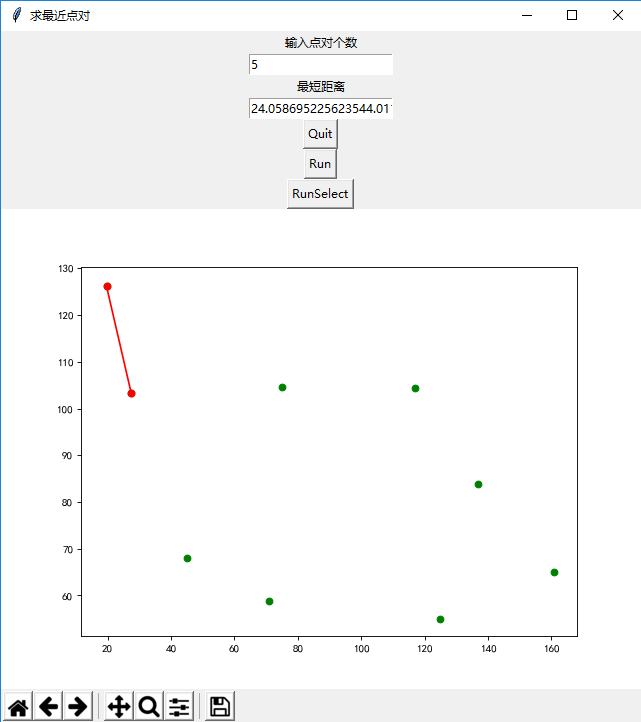
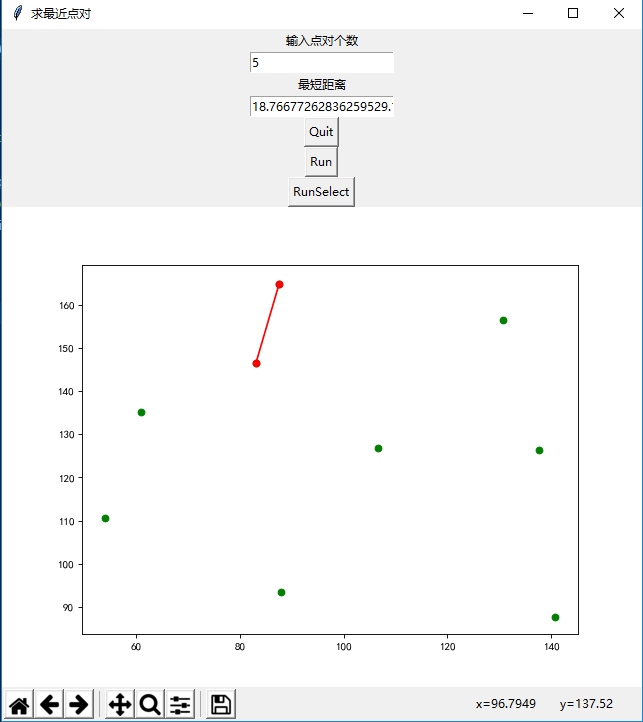
提交作业2

diff --git a/hw2/hw2.tex b/hw2/hw2.tex
@@ -171,7 +171,7 @@ CPU为AMD Ryzen 7 1700(3.0 GHz)，RAM 8G。\\
 \end{figure}
 
 \textbf{鼠标选点：}\\
-在下方的画布中移动鼠标，左下角对显示鼠标悬停的位置的坐标值，点击鼠标可以进行选择，选择的点会在控制台输出(注意不要选到坐标轴以外的点)，如图(\ref{img1-6})。选点结束后点击第三个Button进行计算，实际演示如图(\ref{img1-5})
+在下方的画布中移动鼠标，右下角对显示鼠标悬停的位置的坐标值，点击鼠标可以进行选择，选择的点会在控制台输出(注意不要选到坐标轴以外的点)，如图(\ref{img1-6})。选点结束后点击第三个Button进行计算，实际演示如图(\ref{img1-5})
 
 \begin{figure}[H]
     \centering
